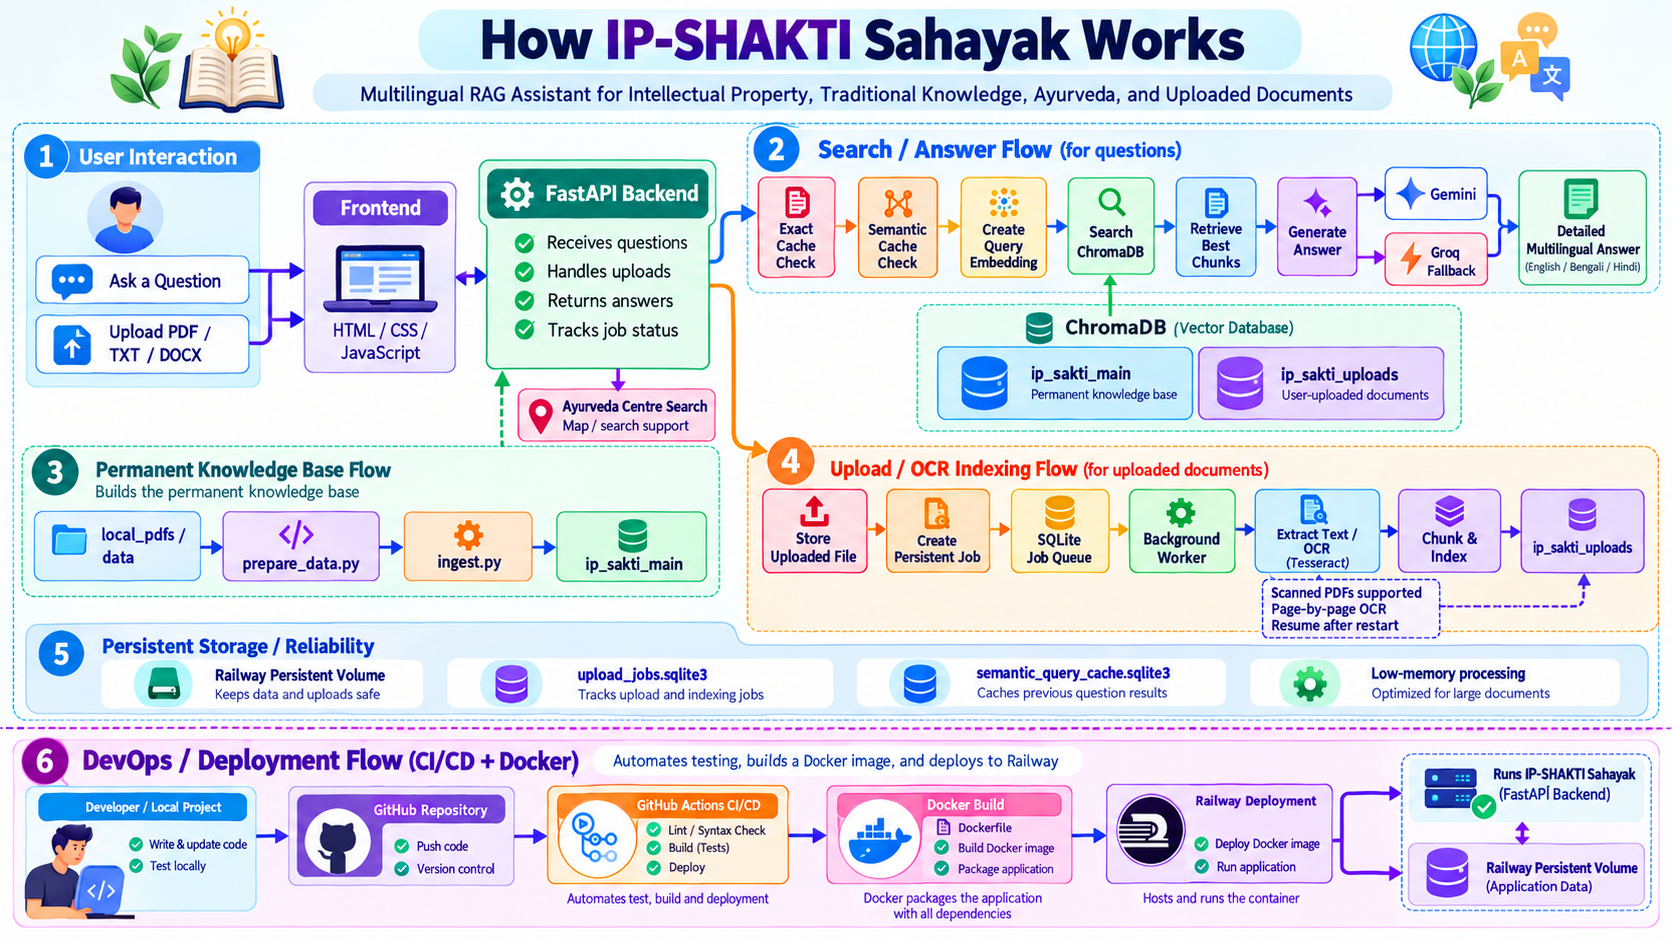
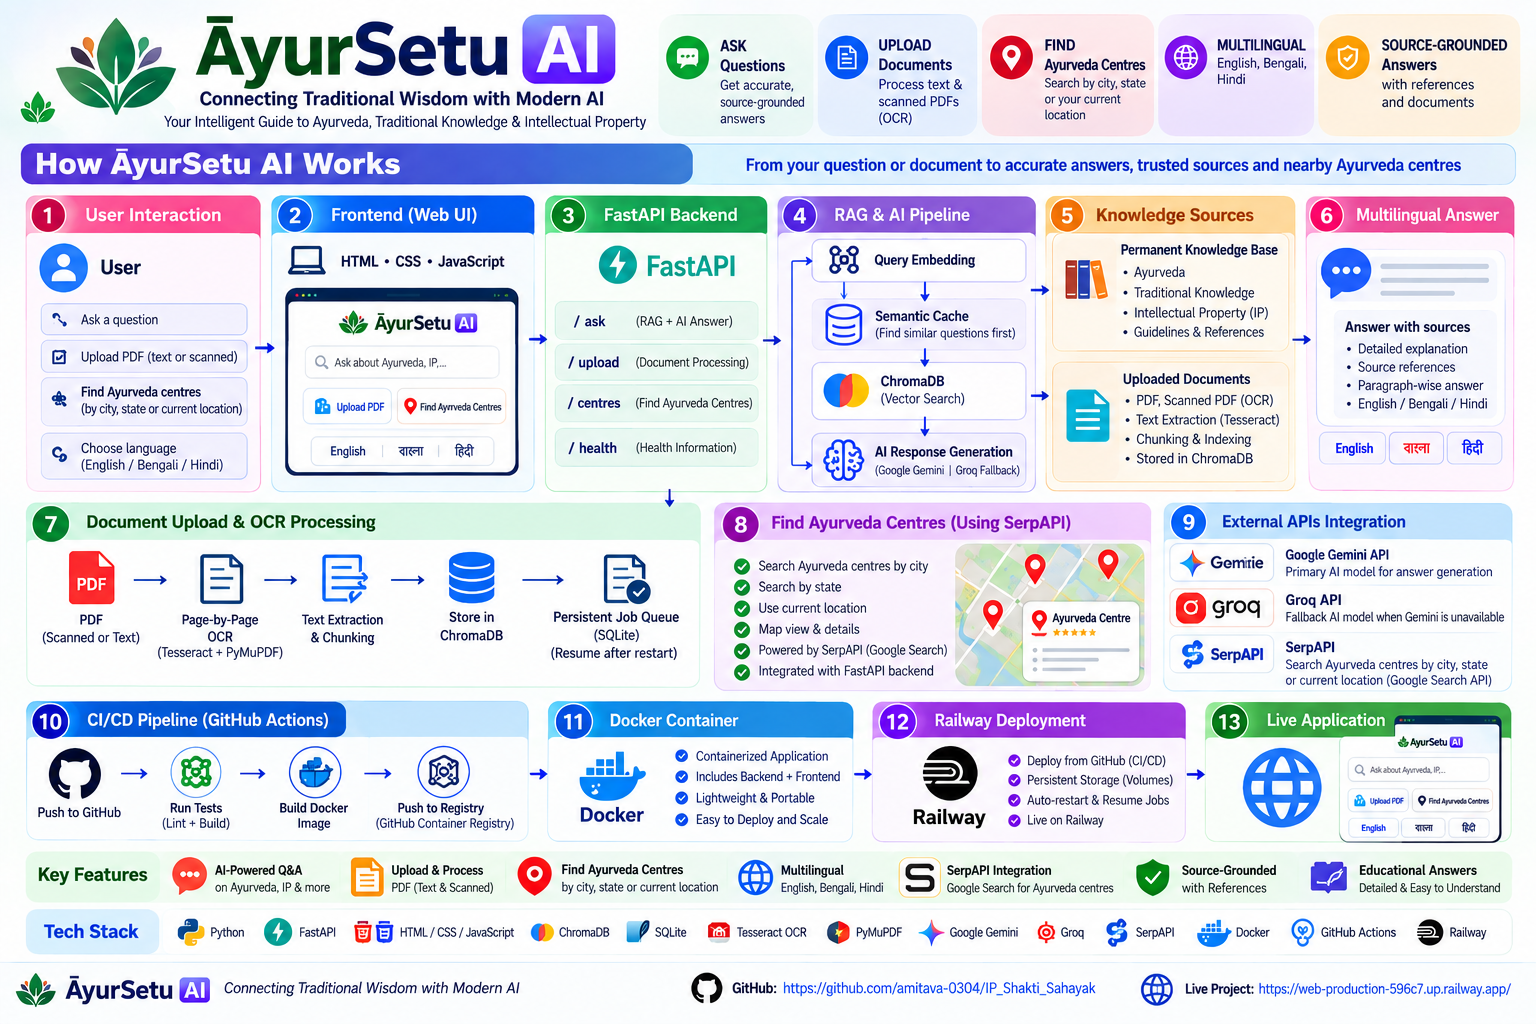
Add colorful workflow and DevOps documentation

diff --git a/README.md b/README.md
@@ -1,6 +1,8 @@
-# IP-SHAKTI Sahayak
+# AyurSetu AI
 
-**IP-SHAKTI Sahayak** is a multilingual RAG-based AI assistant for:
+**Connecting Traditional Wisdom with Modern AI**
+
+**AyurSetu AI** is a multilingual RAG-based AI assistant for:
 
 - Intellectual Property
 - Patents
@@ -25,20 +27,28 @@ The application supports **English, Bengali and Hindi** and combines:
 - Live indexing progress
 - Fast knowledge-base search
 
----
+
+
+> **Project branding:** The public project name is **AyurSetu AI**.  
+> Existing internal identifiers such as `ip_sakti_main`, `ip_sakti_uploads`,
+> SQLite database names, and the current GitHub repository URL are kept unchanged
+> to avoid breaking the deployed application.
 
 
 ---
 
-# 🌈 How IP-SHAKTI Sahayak Works
+
+---
+
+# 🌈 How AyurSetu AI Works
 
 <p align="center">
-  <img src="docs/how_ip_shakti_sahayak_works.png"
-       alt="IP-SHAKTI Sahayak Complete Workflow"
+  <img src="docs/ayursetu_ai_workflow.png"
+       alt="AyurSetu AI Complete Workflow"
        width="100%">
 </p>
 
-> 🚀 **IP-SHAKTI Sahayak** combines document ingestion, OCR, RAG search, semantic caching, AI answer generation, Docker, CI/CD, and Railway deployment into one complete workflow.
+> 🚀 **AyurSetu AI** combines document ingestion, OCR, RAG search, semantic caching, AI answer generation, Docker, CI/CD, and Railway deployment into one complete workflow.
 
 ---
 
@@ -124,6 +134,36 @@ It performs the following tasks:
 - ✅ handles Ayurveda centre search
 
 ---
+
+
+## 📍 Find Ayurveda Centres
+
+**AyurSetu AI** includes a location-aware Ayurveda centre search feature.
+
+Users can search Ayurveda centres by:
+
+- **City**
+- **State**
+- **Current location**
+
+### Powered by SerpAPI
+
+The Ayurveda centre search feature uses **SerpAPI**.
+
+```text
+User enters city/state/current location
+        ↓
+FastAPI backend
+        ↓
+SerpAPI
+        ↓
+Ayurveda centre search results
+        ↓
+Map / list display
+```
+
+This feature is integrated into the same web application but is separate from the document RAG pipeline.
+
 
 # 🔎 4. Search and Answer Flow
 
@@ -662,7 +702,7 @@ Example:
 
 ```powershell
 git add .
-git commit -m "Update IP-SHAKTI Sahayak"
+git commit -m "Update AyurSetu AI"
 git push origin main
 ```
 
@@ -835,7 +875,7 @@ Docker
  ↓
 Railway
  ↓
-IP-SHAKTI Sahayak
+AyurSetu AI
 ```
 
 ---
@@ -1484,6 +1524,26 @@ max_completion_tokens=1400
 
 ---
 
+
+# 🔌 API Integrations
+
+AyurSetu AI currently uses the following external APIs:
+
+| API | Purpose |
+|---|---|
+| **Google Gemini API** | Primary AI answer generation |
+| **Groq API** | Fallback AI answer generation |
+| **SerpAPI** | Ayurveda centre search by city, state, or current location |
+
+### Required Environment Variables
+
+```text
+GEMINI_API_KEY=your_gemini_api_key
+GROQ_API_KEY=your_groq_api_key
+SERPAPI_API_KEY=your_serpapi_api_key
+```
+
+
 # 21. Supported Languages
 
 The application supports:
@@ -1929,7 +1989,7 @@ git status
 
 git add .
 
-git commit -m "Update IP-SHAKTI Sahayak"
+git commit -m "Update AyurSetu AI"
 
 git push origin main
 ```
@@ -2094,7 +2154,7 @@ git status
 
 # 47. Project Goal
 
-The goal of IP-SHAKTI Sahayak is to provide a multilingual, source-grounded educational assistant that can:
+The goal of AyurSetu AI is to provide a multilingual, source-grounded educational assistant that can:
 
 - explain Intellectual Property concepts
 - answer questions from uploaded documents
@@ -2107,5 +2167,12 @@ The goal of IP-SHAKTI Sahayak is to provide a multilingual, source-grounded educ
 
 ---
 
-**IP-SHAKTI Sahayak**  
+**AyurSetu AI**  
 Multilingual RAG Assistant for Intellectual Property, Traditional Knowledge and Ayurveda.
+
+
+## 🔗 Project Links
+
+- **GitHub Repository:** https://github.com/amitava-0304/IP_Shakti_Sahayak
+- **Live Project:** https://web-production-596c7.up.railway.app/
+
